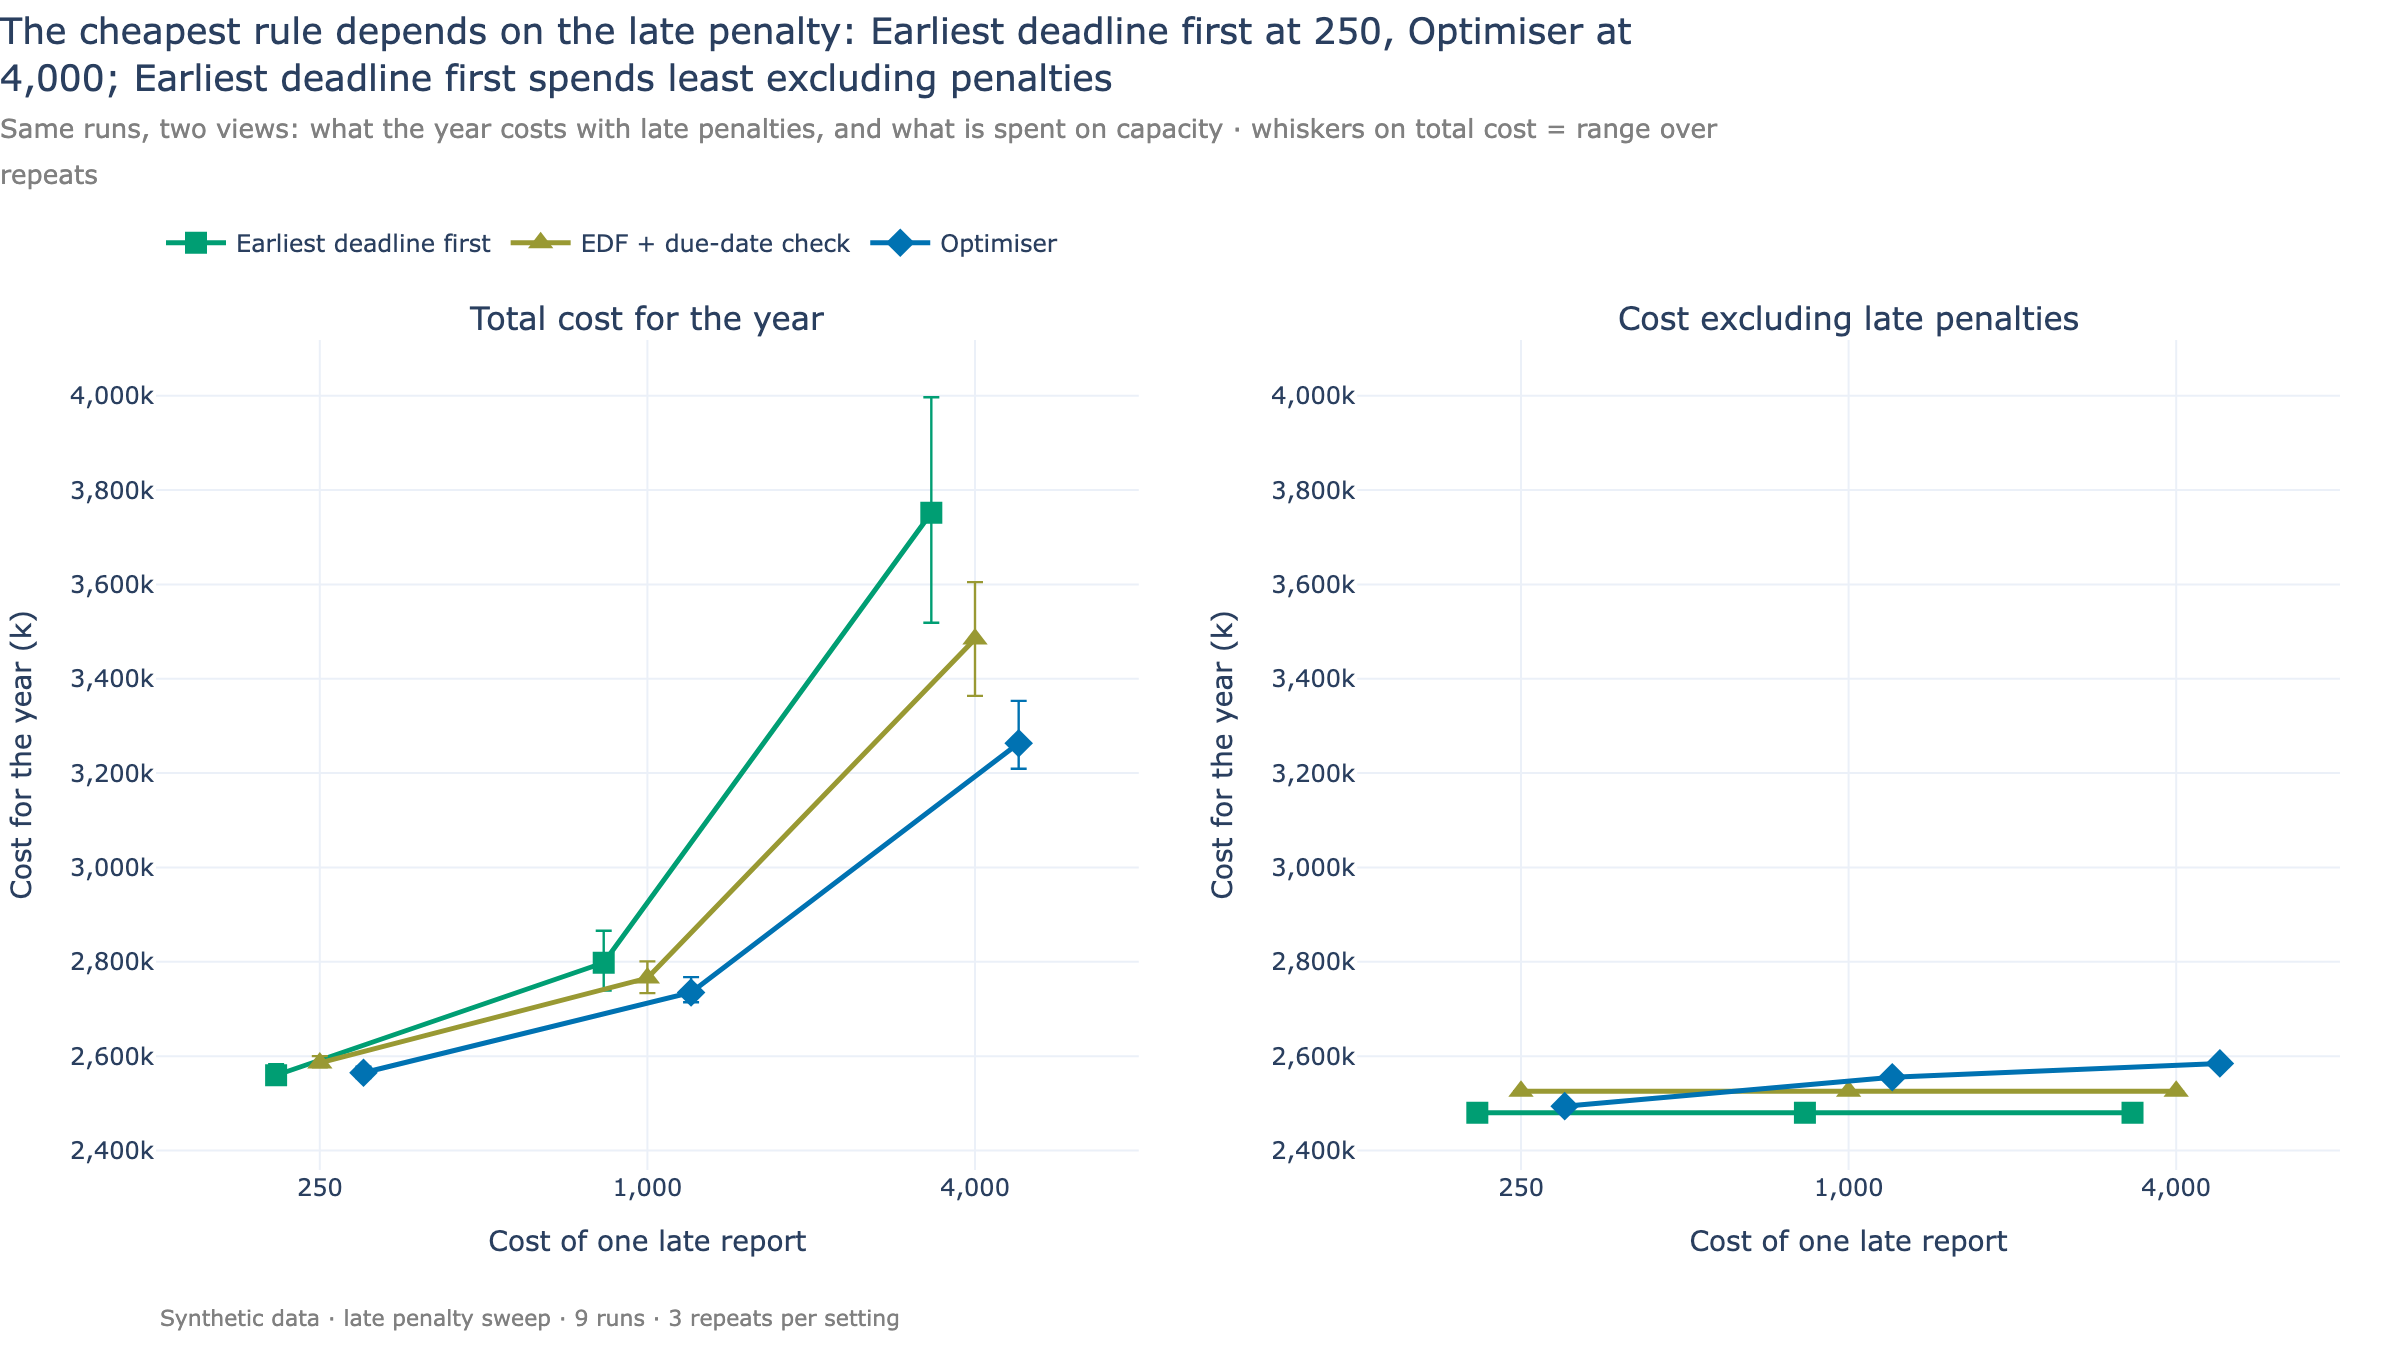
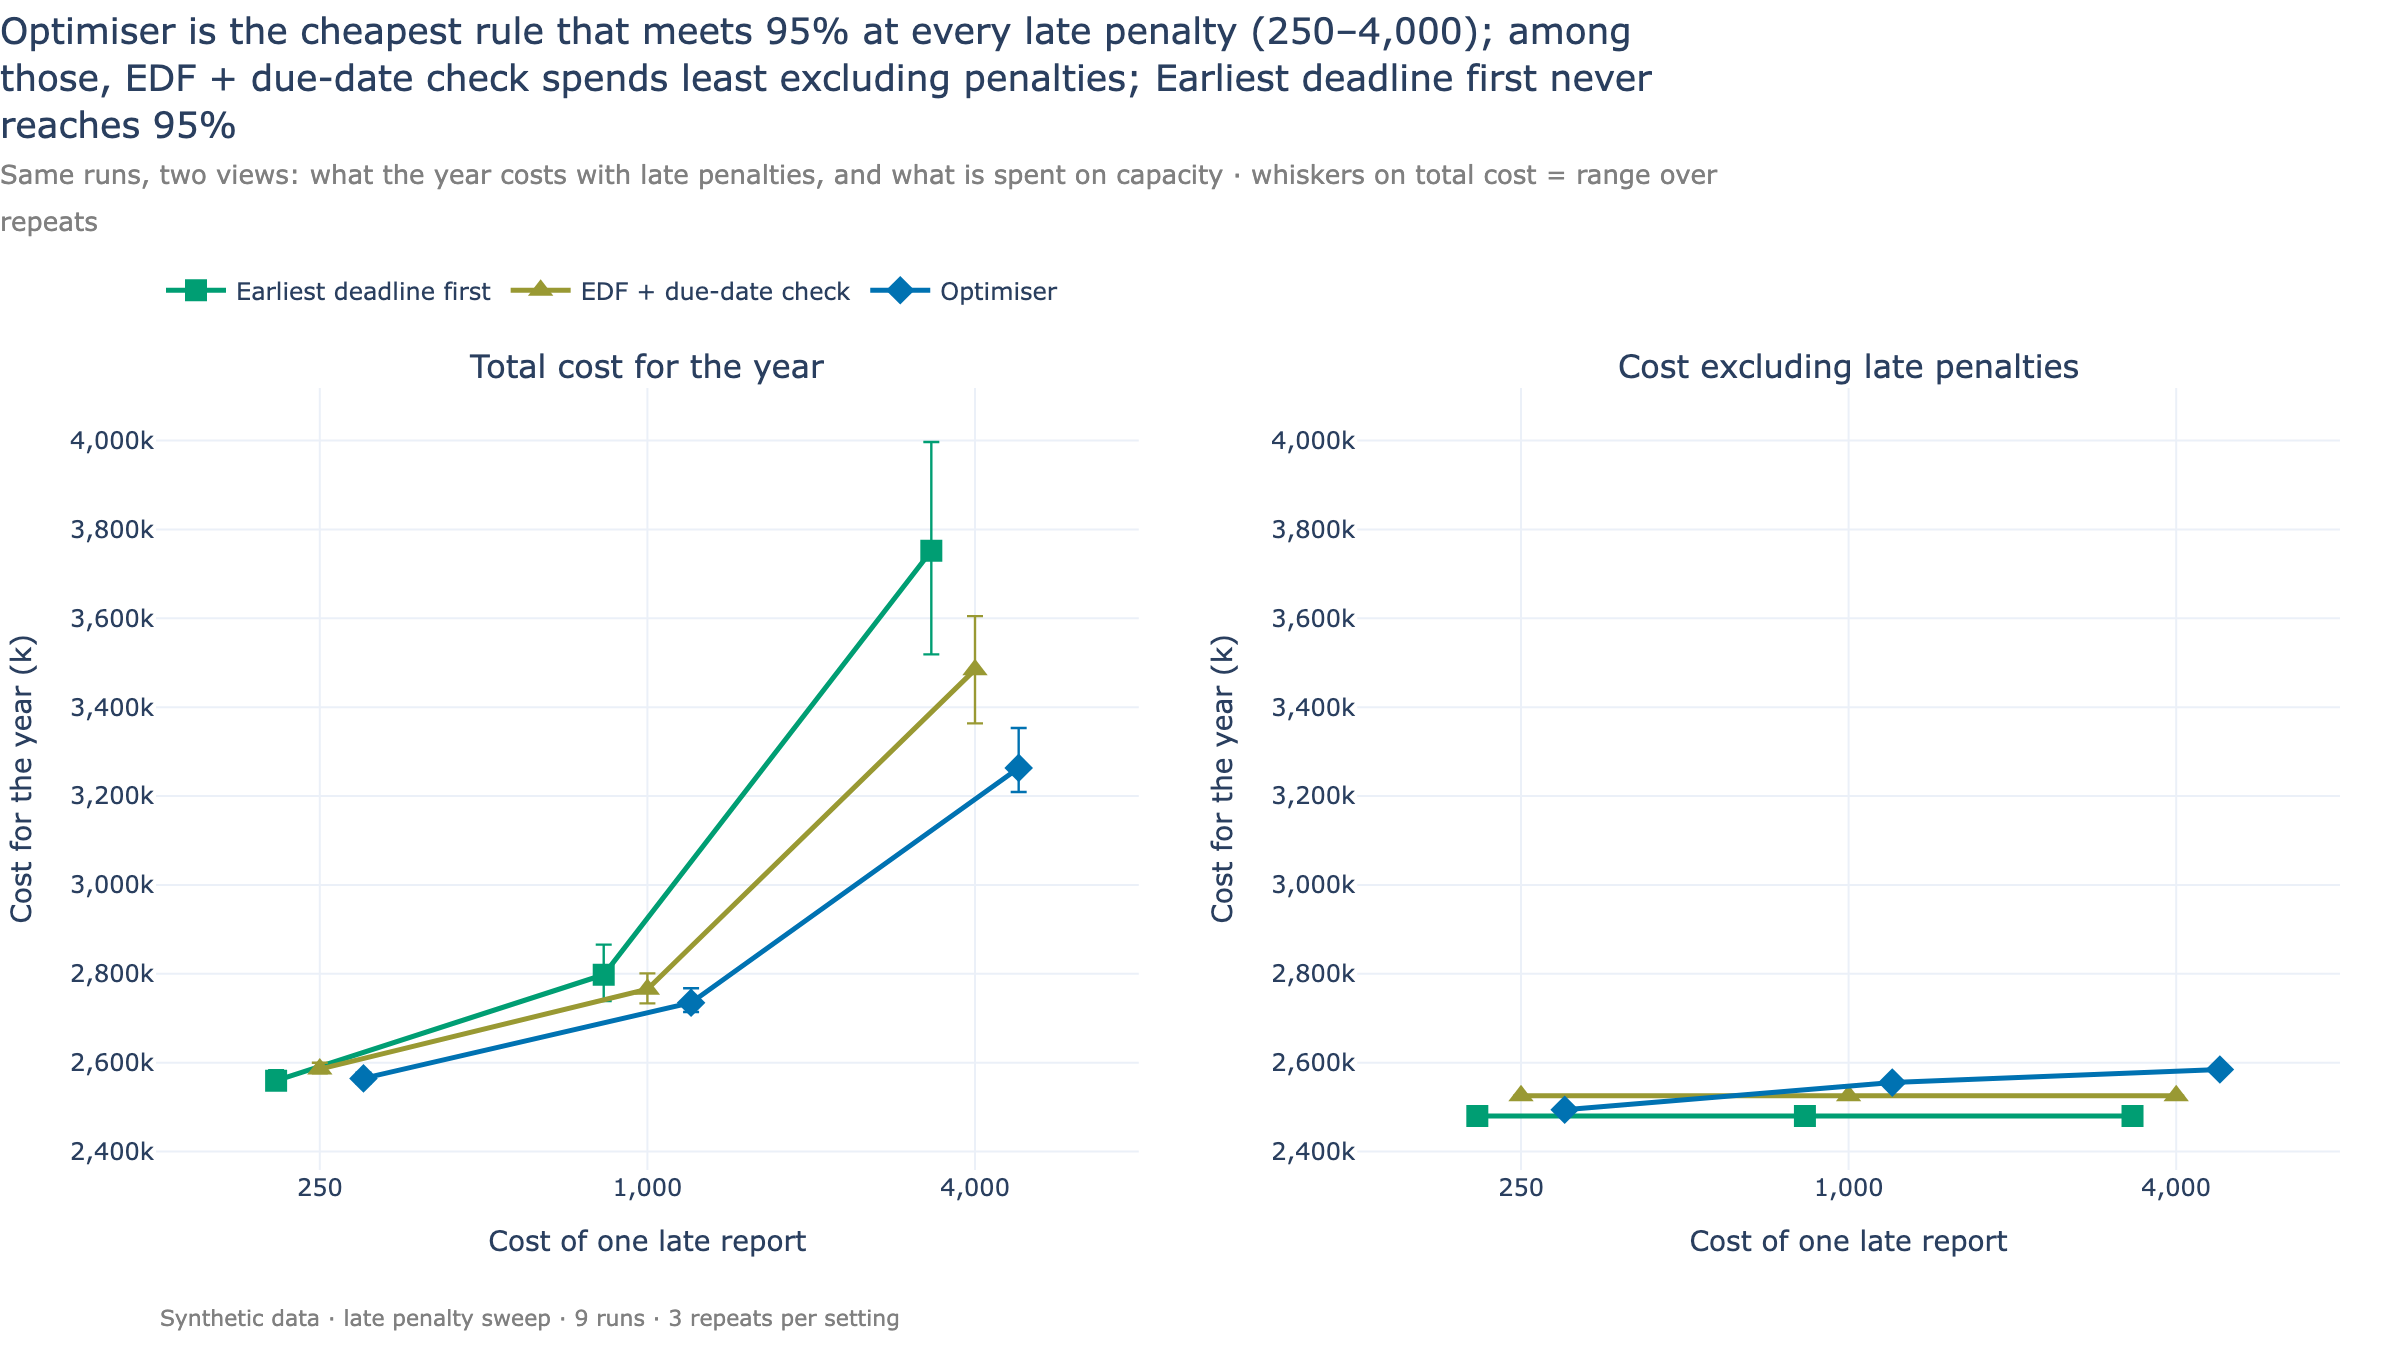
fix: late-penalty takeaway names the cheapest rule that meets the target
Rules that never reach 95% are named instead of being called cheapest;
optimiser fallback shares from published diagnostics appear in chart
footnotes.

diff --git a/src/scout_planner/readme_charts.py b/src/scout_planner/readme_charts.py
@@ -92,8 +92,8 @@ def footnote(sweep: str, df: pd.DataFrame) -> str:
 
 
 def _column(df: pd.DataFrame, name: str) -> pd.Series | None:
-    """A diagnostics column, published plain (``fallbacks``) or flattened (``fallbacks_mean``)."""
-    for candidate in (name, f"{name}_mean"):
+    """A diagnostics column, as published (``diag_fallbacks``), plain or flattened."""
+    for candidate in (f"diag_{name}", name, f"diag_{name}_mean", f"{name}_mean"):
         if candidate in df.columns:
             return pd.to_numeric(df[candidate], errors="coerce")
     return None
@@ -622,30 +622,54 @@ def fig_cadence(df: pd.DataFrame, target: float) -> go.Figure:
 # --- 7. late penalty -------------------------------------------------------------------------
 
 
-def title_late_penalty(df: pd.DataFrame) -> str:
-    """Which rule is cheapest at each penalty level, and which spends least on capacity."""
+def title_late_penalty(df: pd.DataFrame, target: float) -> str:
+    """The cheapest rule **that meets the target** at each penalty level.
+
+    A rule that misses the target is never called "cheapest" (it is cheap
+    because it is late); rules that never pass are named. The "spends least
+    excluding penalties" clause also only considers passing rows.
+    """
     col = "cost.late_penalty"
     levels = sorted(df[col].unique())
-    cheapest = {
-        lvl: df[df[col] == lvl].sort_values(["cost_total_mean", "row_id"]).iloc[0]["policy"]
-        for lvl in levels
-    }
-    if len(set(cheapest.values())) == 1:
-        policy = charts.policy_label(next(iter(cheapest.values())))
+    goal = fmt_pct(target, 0)
+    passing = df[df["meets_target"]]
+    cheapest = {}
+    for lvl in levels:
+        rows = passing[passing[col] == lvl].sort_values(["cost_total_mean", "row_id"])
+        cheapest[lvl] = None if rows.empty else str(rows.iloc[0]["policy"])
+    never = [
+        p
+        for p in charts.ordered_policies(df["policy"].unique().tolist())
+        if p not in set(passing["policy"])
+    ]
+    span = f"({fmt_money(levels[0])}–{fmt_money(levels[-1])})"
+    winners = set(cheapest.values())
+    if winners == {None}:
+        return f"No rule reaches {goal} at any late penalty {span}"
+    if len(winners) == 1:
         title = (
-            f"{policy} is the cheapest rule at every late penalty "
-            f"({fmt_money(levels[0])}–{fmt_money(levels[-1])})"
+            f"{charts.policy_label(next(iter(winners)))} is the cheapest rule that meets {goal} "
+            f"at every late penalty {span}"
         )
     else:
-        lo, hi = levels[0], levels[-1]
+
+        def at(lvl: float) -> str:
+            name = cheapest[lvl]
+            return f"{charts.policy_label(name) if name else 'none'} at {fmt_money(lvl)}"
+
         title = (
-            f"The cheapest rule depends on the late penalty: "
-            f"{charts.policy_label(cheapest[lo])} at {fmt_money(lo)}, "
-            f"{charts.policy_label(cheapest[hi])} at {fmt_money(hi)}"
+            f"The cheapest rule that meets {goal} depends on the late penalty: "
+            f"{at(levels[0])}, {at(levels[-1])}"
         )
-    if "cost_excl_penalty_mean" in df.columns:
-        staff = df.groupby("policy")["cost_excl_penalty_mean"].mean().sort_values()
-        title += f"; {charts.policy_label(str(staff.index[0]))} spends least excluding penalties"
+    if "cost_excl_penalty_mean" in passing.columns and passing["policy"].nunique() > 1:
+        staff = passing.groupby("policy")["cost_excl_penalty_mean"].mean().sort_values()
+        title += (
+            f"; among those, {charts.policy_label(str(staff.index[0]))} spends least "
+            "excluding penalties"
+        )
+    if never:
+        names = " and ".join(charts.policy_label(p) for p in never)
+        title += f"; {names} never {'reach' if len(never) > 1 else 'reaches'} {goal}"
     return title
 
 
@@ -669,7 +693,7 @@ def fig_late_penalty(df: pd.DataFrame, target: float) -> go.Figure:
         "Same runs, two views: what the year costs with late penalties, and what is spent on "
         "capacity · whiskers on total cost = range over repeats"
     )
-    return _finish(fig, title_late_penalty(df), subtitle, footnote("late_penalty", df))
+    return _finish(fig, title_late_penalty(df, target), subtitle, footnote("late_penalty", df))
 
 
 # --- key numbers (markdown) -----------------------------------------------------------------
@@ -812,5 +836,5 @@ def key_numbers_markdown(frames: Mapping[str, pd.DataFrame | None], defaults: Pa
         if name == "cadence":
             out += [title_cadence(df) + ".", ""]
         if name == "late_penalty":
-            out += [title_late_penalty(df) + ".", ""]
+            out += [title_late_penalty(df, target) + ".", ""]
     return "\n".join(out).rstrip() + "\n"

diff --git a/tests/test_readme_charts.py b/tests/test_readme_charts.py
@@ -400,17 +400,19 @@ def test_png_export(tmp_path: Path) -> None:
 
 
 def late_penalty_frame(switch: bool = True) -> pd.DataFrame:
-    """penalty x rule. With ``switch``, EDF is cheapest at 250 and the optimiser at 4,000."""
+    """penalty x rule. EDF is always cheapest but misses the target (94.77%), so it must
+    never be called cheapest. With ``switch``, the cheapest *passing* rule is EDF + due-date
+    check at 250 and the optimiser at 4,000; without it, the optimiser everywhere."""
     rows = []
     for penalty in (250.0, 1000.0, 4000.0):
-        for policy, base, late_reports in (
-            ("edf", 3000, 300),
-            ("edf_feasible", 3050 if switch else 3400, 220),
-            ("optimiser", 3150 if switch else 3700, 150),
+        for policy, base, late_reports, on_time in (
+            ("edf", 2900, 140, 0.9477),
+            ("edf_feasible", 3050 if switch else 3400, 220, 0.9606),
+            ("optimiser", 3150 if switch else 3000, 150, 0.9704),
         ):
             late_cost = late_reports * penalty
             r = row(
-                0.95,
+                on_time,
                 base + late_cost / 1000,
                 **{"assignment.policy": policy, "cost.late_penalty": penalty},
             )
@@ -436,13 +438,20 @@ def test_late_penalty_title_and_cost_excluding_penalty() -> None:
     assert (
         df["cost_excl_penalty_mean"] == df["cost_total_mean"] - df["cost_late_penalty_mean"]
     ).all()
-    assert rc.title_late_penalty(df) == (
-        "The cheapest rule depends on the late penalty: Earliest deadline first at 250, "
-        "Optimiser at 4,000; Earliest deadline first spends least excluding penalties"
+    assert rc.title_late_penalty(df, TARGET) == (
+        "The cheapest rule that meets 95% depends on the late penalty: EDF + due-date check "
+        "at 250, Optimiser at 4,000; among those, EDF + due-date check spends least excluding "
+        "penalties; Earliest deadline first never reaches 95%"
     )
     flat = late_penalty_frame(switch=False)
-    assert rc.title_late_penalty(flat).startswith(
-        "Earliest deadline first is the cheapest rule at every late penalty (250–4,000)"
+    assert rc.title_late_penalty(flat, TARGET) == (
+        "Optimiser is the cheapest rule that meets 95% at every late penalty (250–4,000); "
+        "among those, Optimiser spends least excluding penalties; Earliest deadline first "
+        "never reaches 95%"
+    )
+    none = flat.assign(meets_target=False)
+    assert (
+        rc.title_late_penalty(none, TARGET) == "No rule reaches 95% at any late penalty (250–4,000)"
     )
     fig = rc.fig_late_penalty(df, TARGET)
     assert list(fig.data[0].x) == ["250", "1,000", "4,000"]
@@ -454,7 +463,7 @@ def test_key_numbers_include_cost_excluding_penalty() -> None:
         {"headline": headline_frame(), "late_penalty": late_penalty_frame()}, DEFAULTS
     )
     assert text.count("Cost excl. late penalty") == 2
-    assert "## Late penalty" in text and "The cheapest rule depends on the late penalty" in text
+    assert "## Late penalty" in text and "The cheapest rule that meets 95% depends" in text
 
 
 def test_near_target_values_get_two_decimals_and_worst_repeat_is_named() -> None:
@@ -479,8 +488,8 @@ def test_fallback_note_in_footnote() -> None:
     opt = df["policy"] == "optimiser"
     df.loc[opt & df["automation_enabled"], "fallbacks"] = 12
     assert rc.fallback_note(df) == "optimiser fell back to EDF 108 times (9 of 18 optimiser runs)"
-    df["fallback_share_mean"] = 0.0
-    df.loc[opt & df["automation_enabled"], "fallback_share_mean"] = 0.032
+    df["diag_fallback_share"] = 0.0  # the name the sweep publishes
+    df.loc[opt & df["automation_enabled"], "diag_fallback_share"] = 0.032
     note = rc.fallback_note(df)
     assert note == "optimiser fell back to EDF in up to 3.2% of rounds (9 of 18 optimiser runs)"
     fig = rc.fig_headline(df, TARGET)
